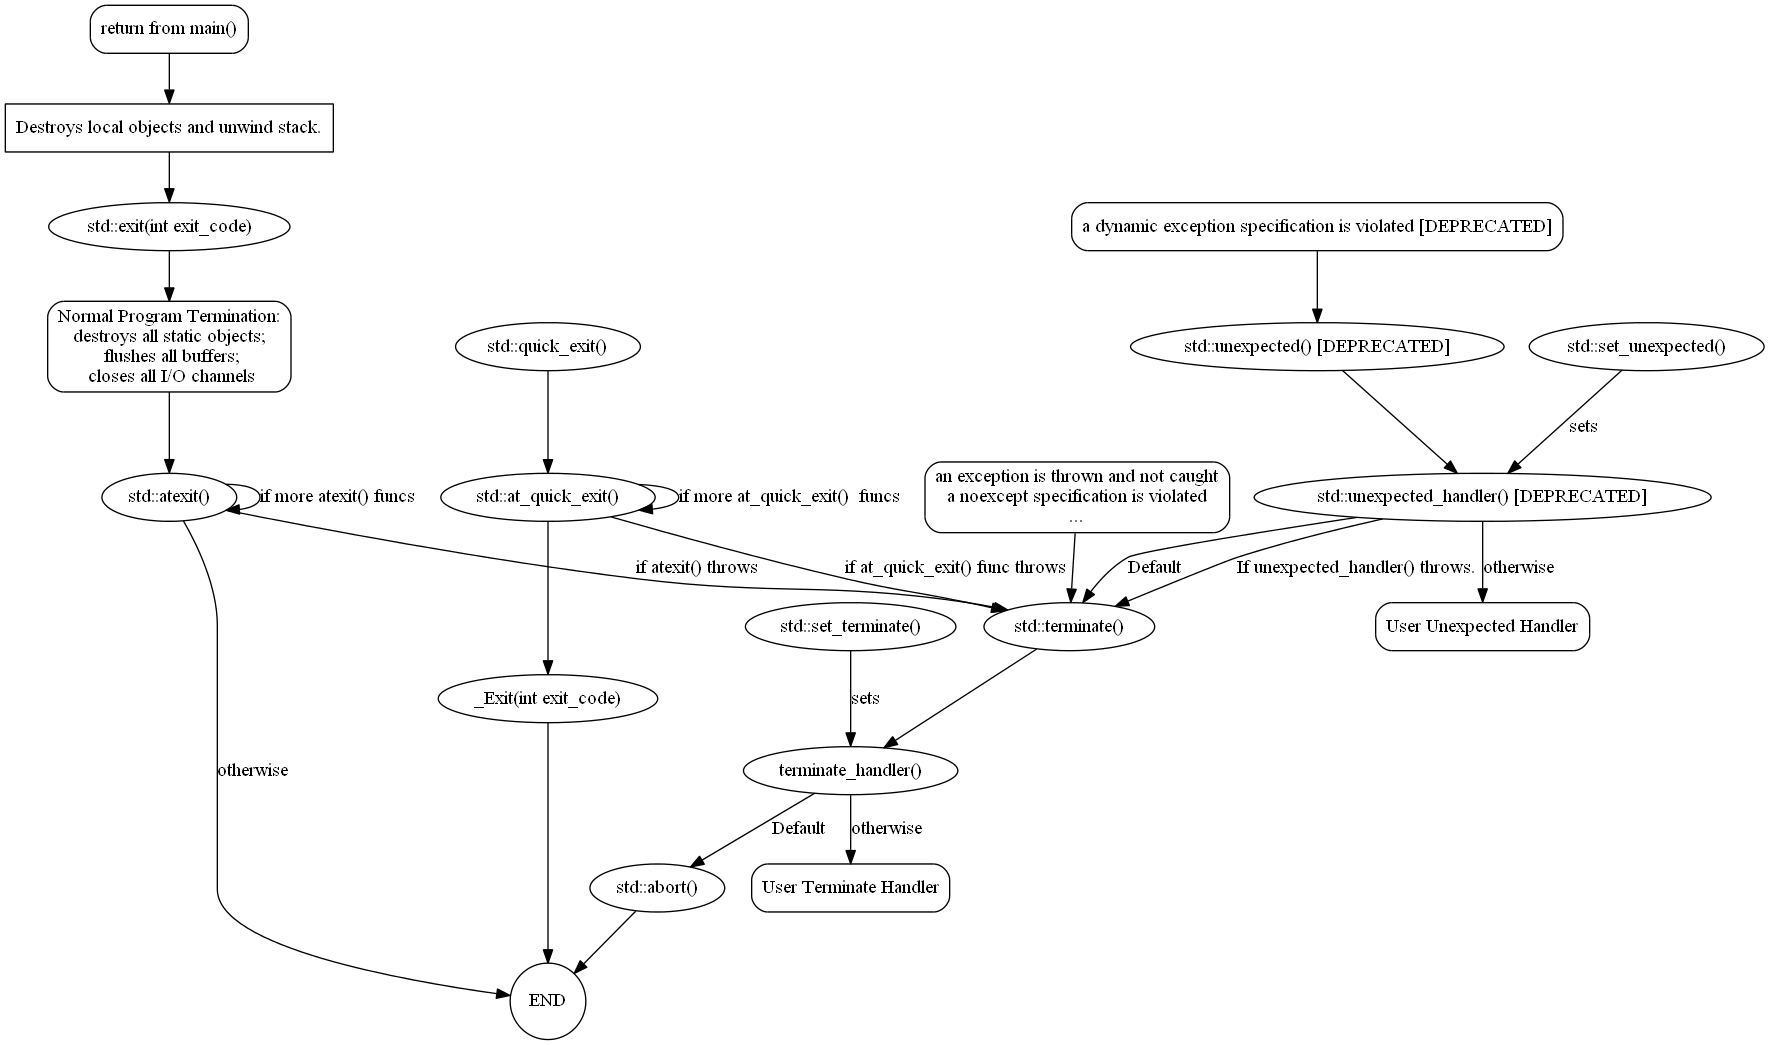
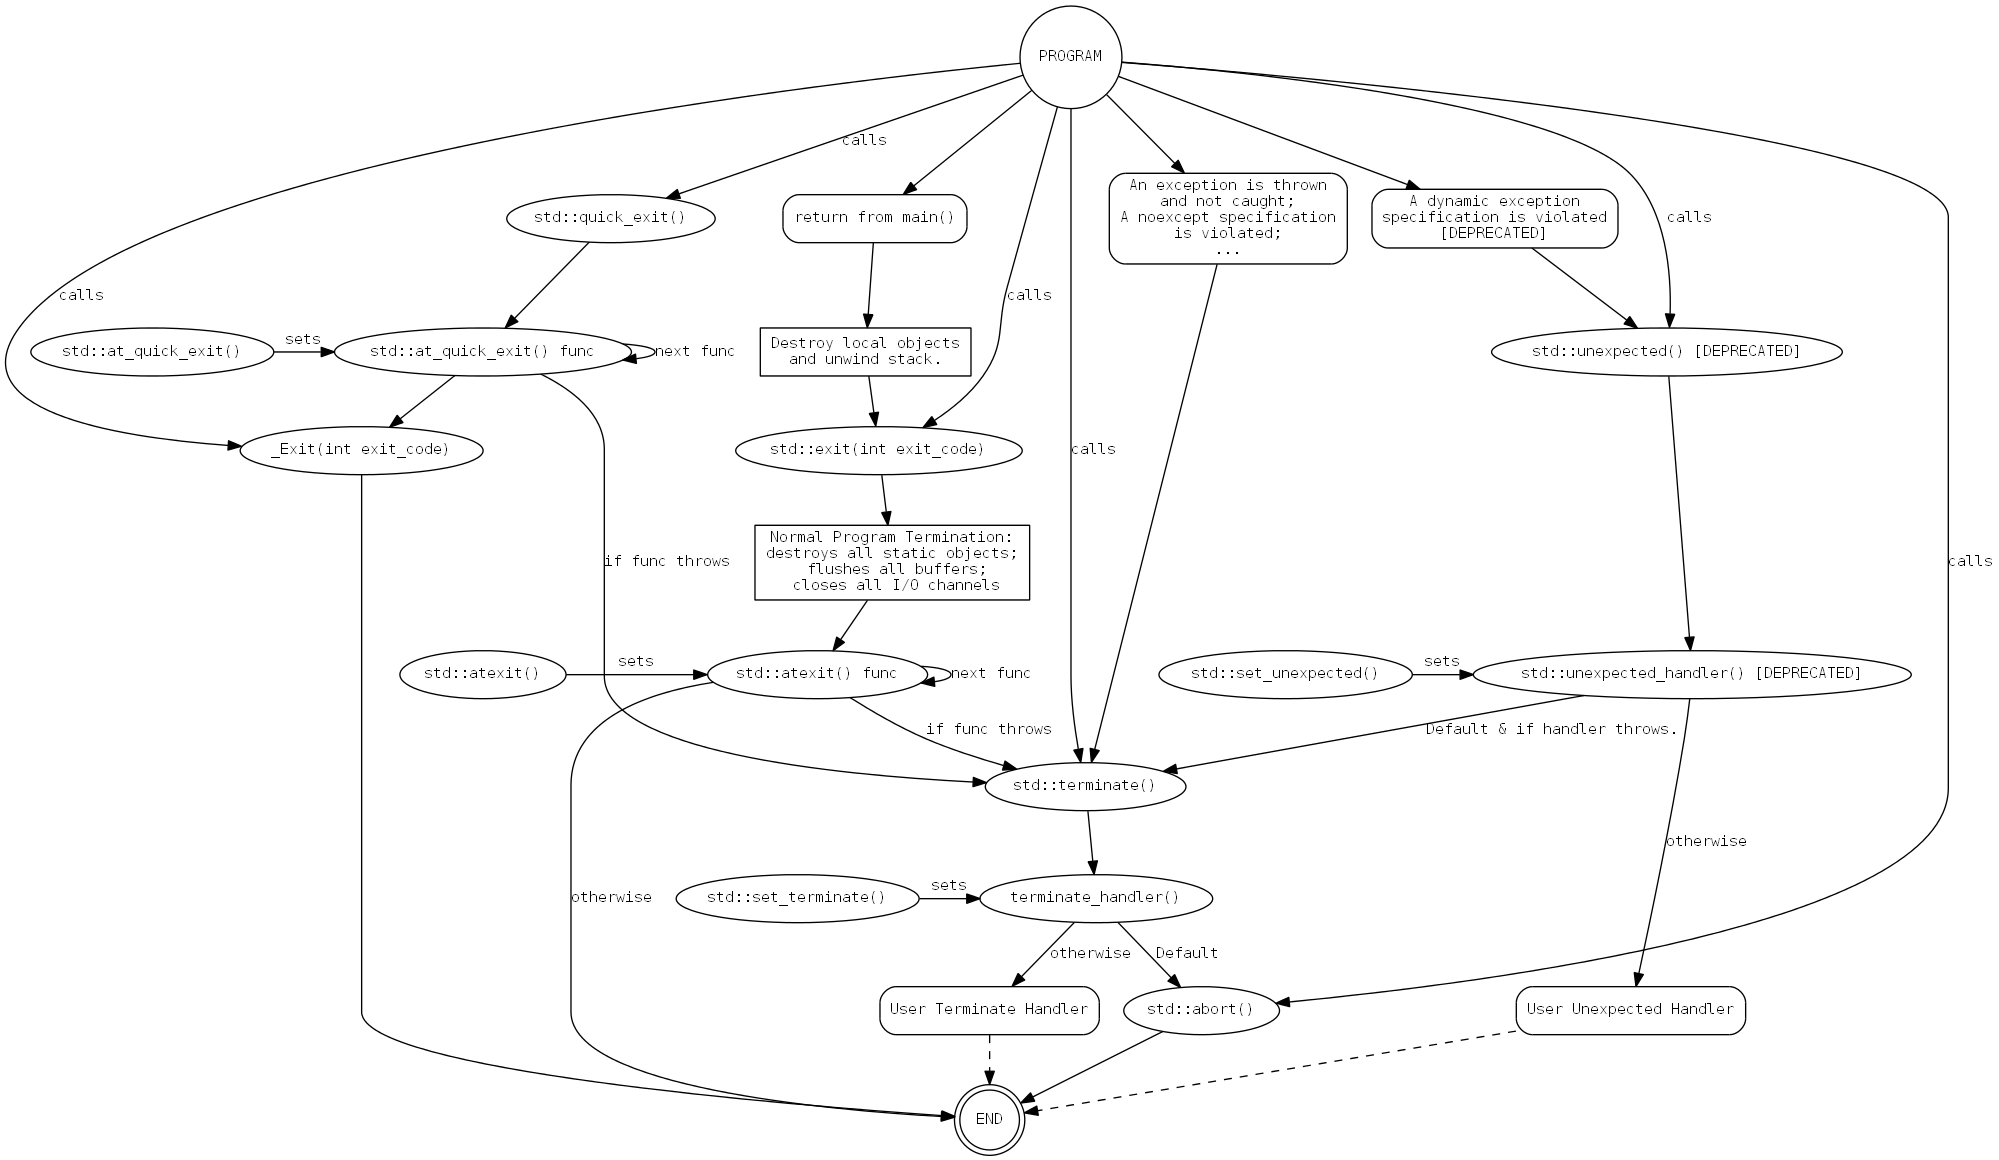
Graph updates. - Added Program mode - Added rank=same constraints

diff --git a/README.md b/README.md
@@ -12,7 +12,7 @@ C++ program terminators include:
 * [`std::_Exit()`](http://en.cppreference.com/w/cpp/utility/program/_Exit)
 * [`std::abort()`](http://en.cppreference.com/w/cpp/utility/program/abort)
 * [`std::terminate()`](http://en.cppreference.com/w/cpp/error/terminate)
-* [`std::unexpected()` (deprecated)](http://en.cppreference.com/w/cpp/error/unexpected)
+* [`std::unexpected()`](http://en.cppreference.com/w/cpp/error/unexpected)(deprecated)
 
 The graph is somewhat incomplete as there some subtle contexts and conditions that are not explicitly stated, and there is no explicit distinction between
 the C and C++ versions of some of the functions (e.g. `exit()`).  
